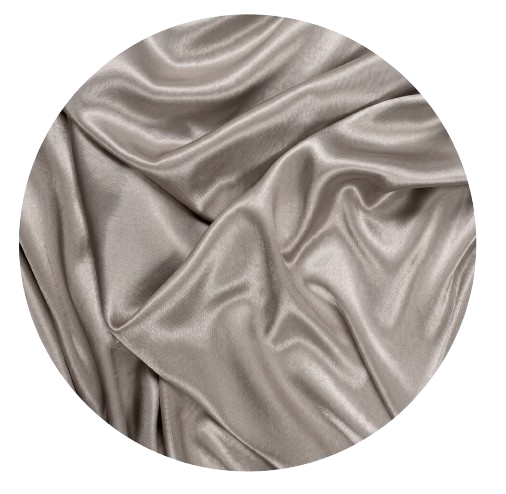
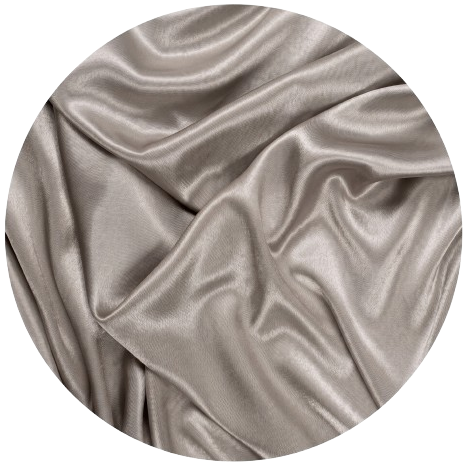
Add rsvp block

diff --git a/src/App.css b/src/App.css
@@ -494,6 +494,12 @@ body {
   background-repeat: no-repeat;
   background-size: cover;
   background-position: center;
+}
+.color-circle.venom {
+  background-image: url('./assets/venom.png');
+  background-repeat: no-repeat;
+  background-size: cover;
+  background-position: center;
 } /* Благородный серый камень для баланса */
 /* Разделитель между блоками */
 .dress-divider-wrapper {
@@ -506,4 +512,136 @@ body {
   width: 60px;
   border-top: 1px solid #1a1a1a;
   opacity: 0.2;
+}
+
+.section-rsvp-final {
+  background-color: #6c755a; /* Оливковый */
+  padding: 50px 20px;
+  display: flex;
+  justify-content: center;
+  align-items: center;
+}
+
+/* Контейнер для центрирования контента */
+.rsvp-card {
+  text-align: center;
+  color: #c5a059; /* Золотой оттенок */
+  max-width: 500px;
+  margin: 0 auto;
+  display: flex;
+  flex-direction: column;
+  gap: 60px; /* Расстояние между тремя основными частями */
+}
+
+/* Орнамент между именами и датой */
+.rsvp-ornament {
+  margin: 15px 0;
+  font-size: 1.5rem;
+  opacity: 0.8;
+}
+
+/* Блок с датой и линиями */
+.rsvp-date-wrapper {
+  display: flex;
+  align-items: center;
+  justify-content: center;
+  gap: 20px;
+  margin-top: 10px;
+}
+
+.date-line {
+  width: 60px;
+  border: none;
+  border-top: 1px solid #c5a059;
+  opacity: 0.5;
+  margin: 0;
+}
+
+.rsvp-date {
+  font-family: 'Playfair Display', serif;
+  font-size: 2.8rem;
+  margin: 0;
+  line-height: 1;
+}
+
+/* Главный заголовок */
+.rsvp-main-text {
+  font-family: 'Playfair Display', serif;
+  font-size: 2.5rem;
+  line-height: 1.3;
+  font-weight: 400;
+  margin: 0;
+  letter-spacing: 3px;
+  color: #f0e9dc;
+}
+
+/* Текст над кнопкой */
+.rsvp-subtitle {
+  font-family: 'Playfair Display', serif;
+  font-size: 0.75rem;
+  letter-spacing: 3px;
+  text-transform: uppercase;
+  margin-bottom: 25px;
+  opacity: 0.9;
+  color: #f0e9dc;
+}
+
+/* Кнопка "ЗАПОЛНИТЬ АНКЕТУ" */
+.btn-form {
+  background-color: transparent;
+  border: 1px solid #f0e9dc;
+  border-radius: 10px;
+  color: #f0e9dc;
+  padding: 18px 40px;
+  font-family: 'Playfair Display', serif;
+  font-size: 0.9rem;
+  letter-spacing: 3px;
+  text-transform: uppercase;
+  cursor: pointer;
+  transition: all 0.3s ease;
+  width: 100%;
+  max-width: 350px;
+}
+
+/* Эффекты для кнопки */
+@media (hover: hover) {
+  .btn-form:hover {
+    background-color: #6d7262;
+  }
+}
+
+.btn-form:active {
+  transform: scale(0.97);
+  background-color: #f0e9dc;
+  color: #6c755a;
+}
+
+/* Адаптация под мобильные экраны */
+@media (max-width: 768px) {
+  .rsvp-main-text {
+    font-size: 2rem;
+  }
+  .rsvp-date {
+    font-size: 2.2rem;
+  }
+  .date-line {
+    width: 40px;
+  }
+  .section-rsvp-final {
+    padding: 80px 20px;
+  }
+}
+/* Контейнер для SVG */
+.rsvp-names-curved {
+  width: 100%;
+  max-width: 300px; /* Ограничиваем ширину, чтобы дуга не разъезжалась */
+  margin: 0 auto;
+  height: 60px;
+}
+
+/* Стили для самого текста внутри SVG */
+.curved-text {
+  font-family: 'Playfair Display', serif;
+  font-size: 16px;
+  letter-spacing: 2px;
 }

diff --git a/src/components/RsvpBlock.jsx b/src/components/RsvpBlock.jsx
@@ -1,0 +1,73 @@
+import { Container } from 'react-bootstrap';
+
+function RsvpBlock() {
+  return (
+    <section className="section-rsvp-final">
+      <Container>
+        <div className="rsvp-card">
+          <div className="rsvp-top">
+            {/* Имена дугой (SVG) */}
+            <div className="rsvp-names-curved">
+              <svg viewBox="0 0 300 60" width="100%" height="100%">
+                {/* Невидимая дуга (квадратичная кривая Безье) */}
+                <path
+                  id="name-curve"
+                  d="M 20 50 Q 150 3 280 50"
+                  fill="transparent"
+                />
+
+                {/* Текст, пущенный по этой дуге */}
+                <text fill="#f0e9dc" className="curved-text">
+                  <textPath
+                    href="#name-curve"
+                    startOffset="50%"
+                    textAnchor="middle"
+                  >
+                    DMITRIY & ALEKSANDRA
+                  </textPath>
+                </text>
+              </svg>
+            </div>
+
+            <div className="rsvp-ornament">
+              <span>ღ</span>
+            </div>
+
+            <div className="rsvp-date-wrapper">
+              <hr className="date-line" />
+              <p className="rsvp-date">04.07.2026</p>
+              <hr className="date-line" />
+            </div>
+          </div>
+
+          <div className="rsvp-center">
+            <h2 className="rsvp-main-text">
+              БУДЕМ
+              <br />
+              СЧАСТЛИВЫ
+              <br />
+              ВИДЕТЬ ВАС!
+            </h2>
+          </div>
+
+          <div className="rsvp-bottom">
+            <p className="rsvp-subtitle">ПРОСИМ ОТВЕТИТЬ НА ПАРУ ВОПРОСОВ</p>
+            <button
+              onClick={() =>
+                window.open(
+                  'https://tgkbnkzi.forms.app/dimasasha-wedding',
+                  '_blank',
+                )
+              }
+              className="btn-form"
+            >
+              ЗАПОЛНИТЬ АНКЕТУ
+            </button>
+          </div>
+        </div>
+      </Container>
+    </section>
+  );
+}
+
+export default RsvpBlock;

diff --git a/src/App.jsx b/src/App.jsx
@@ -5,6 +5,7 @@ import GuestBlock from './components/GuestBlock';
 import LocationBlock from './components/LocationBlock';
 import TimingBlock from './components/TimingBlock';
 import DressCodeBlock from './components/DressCodeBlock';
+import RsvpBlock from './components/RsvpBlock';
 
 function App() {
   return (
@@ -14,6 +15,7 @@ function App() {
       <LocationBlock />
       <TimingBlock />
       <DressCodeBlock />
+      <RsvpBlock />
     </div>
   );
 }

diff --git a/src/components/DressCodeBlock.jsx b/src/components/DressCodeBlock.jsx
@@ -31,6 +31,9 @@ function DressCodeBlock() {
           <div className="color-circle-wrapper">
             <div className="color-circle spider"></div>
           </div>
+          <div className="color-circle-wrapper">
+            <div className="color-circle venom"></div>
+          </div>
         </div>
         <div className="dress-divider-wrapper">
           <hr className="dress-divider" />
